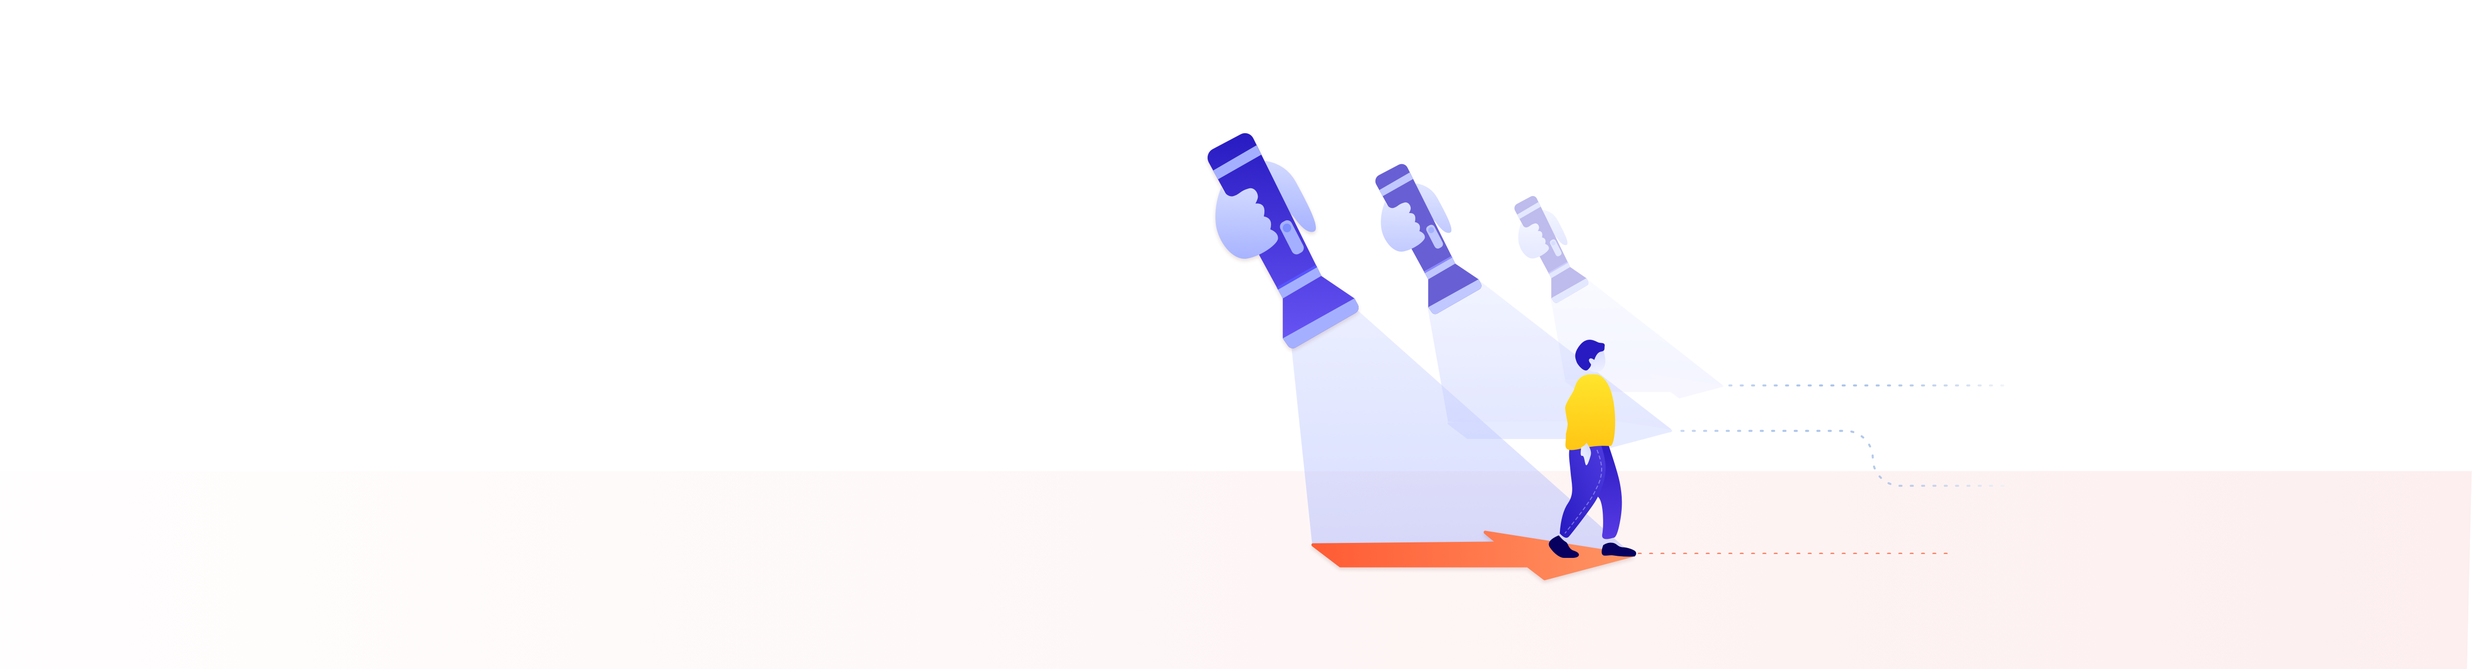
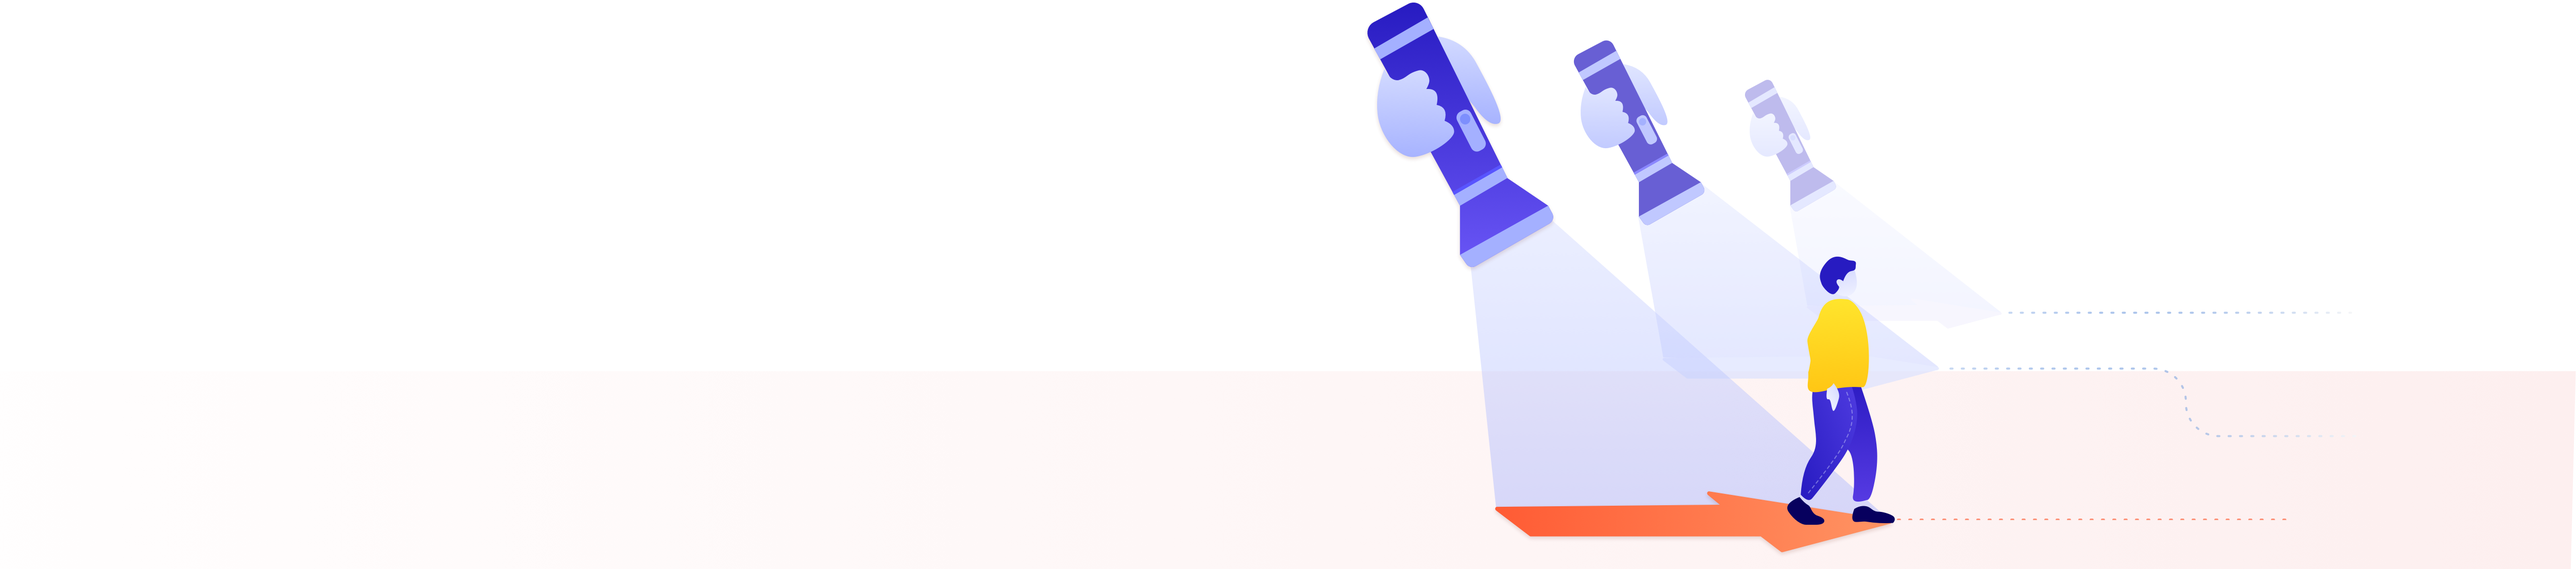
- WIP - fix header + content

Changed region(s): [[0.4688, 0.0, 0.75, 0.9837]]

diff --git a/assets/app/style/mentors.scss b/assets/app/style/mentors.scss
@@ -48,7 +48,7 @@
   }
 }
 
-@media only screen and (max-width: 1800px) {
+@media only screen and (max-width: 1440px) {
   /* header */
   .header-mentors {
     background-image: url(../mentors/background_desktop.png);

diff --git a/assets/app/style/layout.scss b/assets/app/style/layout.scss
@@ -373,7 +373,7 @@ body {
   display: none;
 }
 
-@media only screen and (max-width: 1800px) {
+@media only screen and (max-width: 1440px) {
   .header {
     z-index: 8;
     height: 650px;
